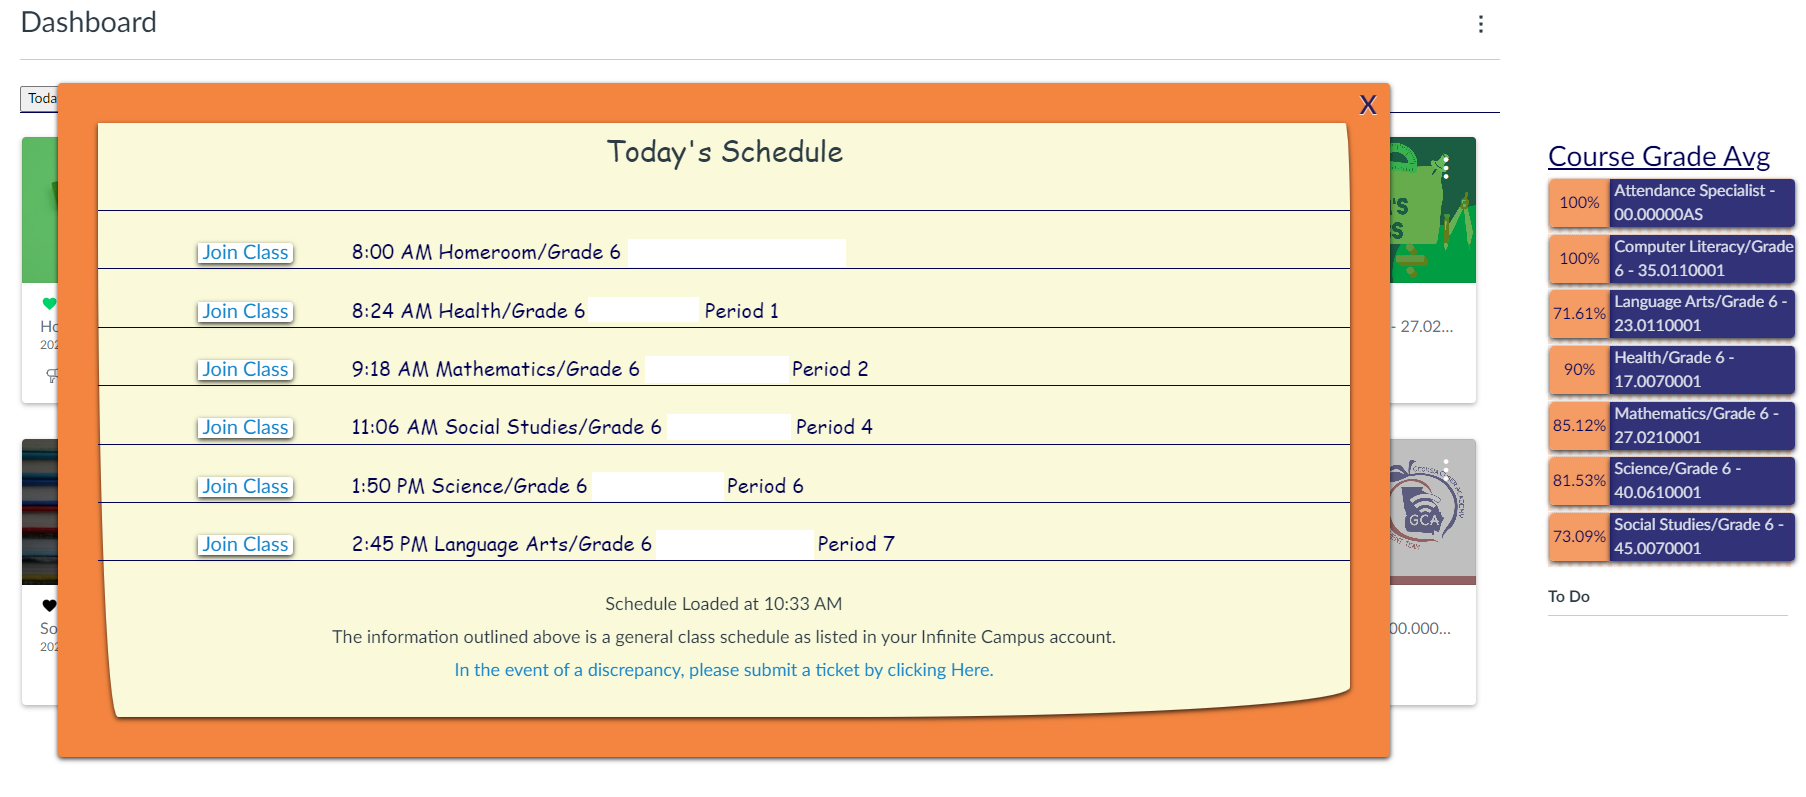
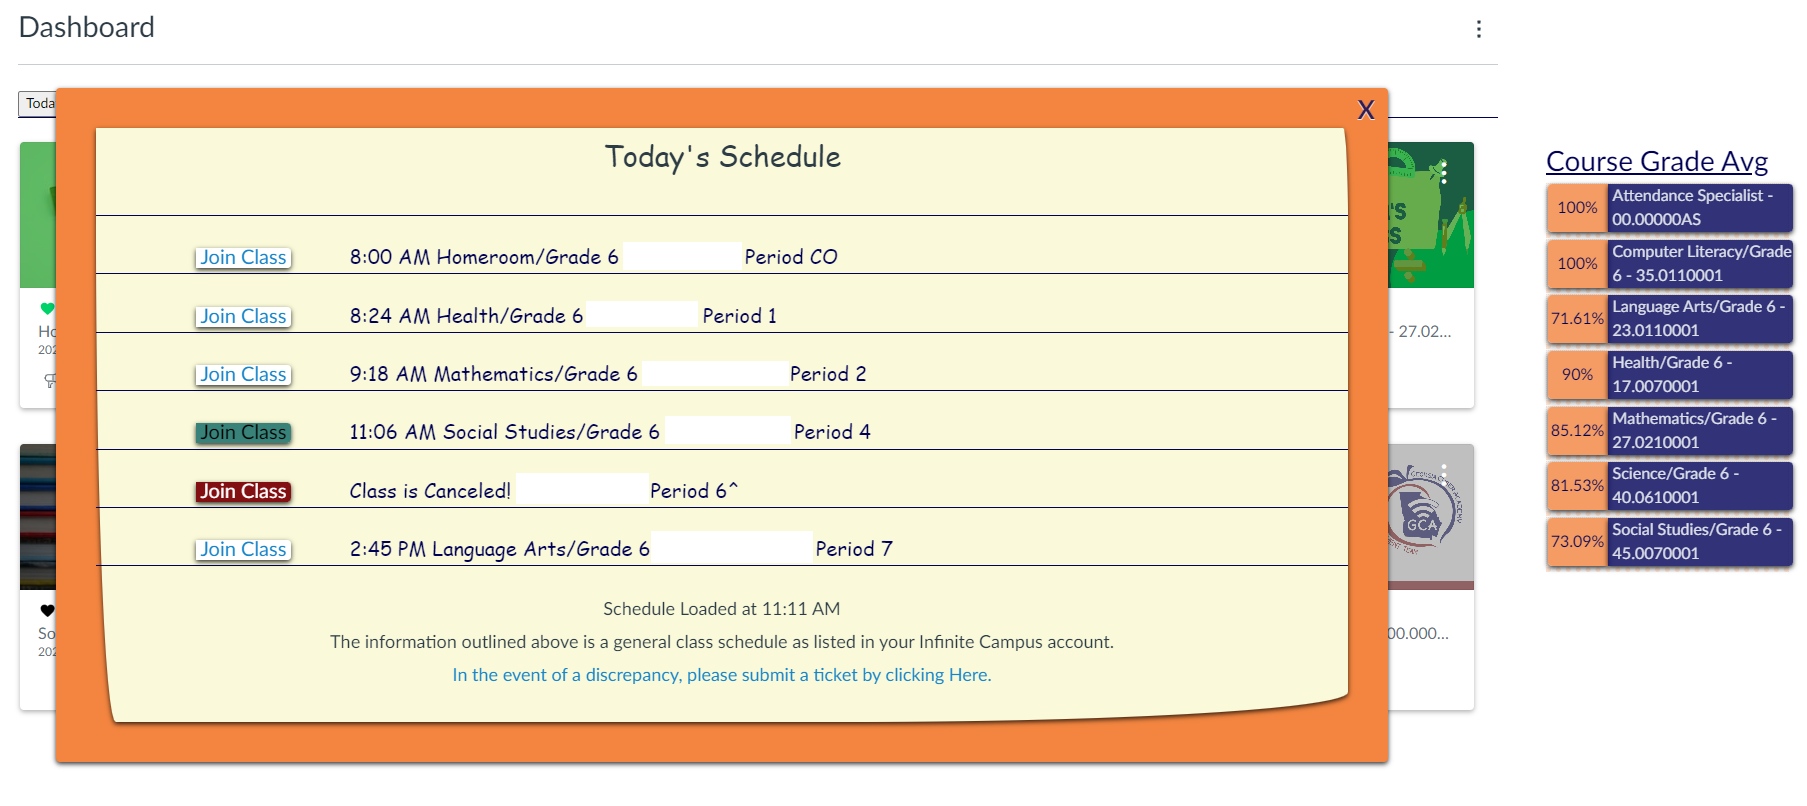
2of3 updates

diff --git a/index.html b/index.html
@@ -84,15 +84,42 @@
         <div class="project-wrapper">
           <h2 class="section-title dark-blue-text">Projects</h2>
 
-          <!-- Notice: each .row is a project Dashboard Grades-->
+          <!-- Notice: each .row is a project Canvas Class Cancel-->
           <div class="row">
             <div class="col-lg-4 col-sm-12">
               <div class="project-wrapper__text load-hidden">
-                <h3 class="project-wrapper__text-title">Canvas Lms Dashboard Scheduler</h3>
+                <h3 class="project-wrapper__text-title">Canvas Lms Class Cancel</h3>
+                <div>
+                  <p class="mb-4">
+                    This is an image of a tool for the Canvas Lms. With the click of two buttons, Teachers can cancel their classes. This will make cancel classes 
+                    show on the Dashboard schedule as canceled. In reports we are able to see any canceled classes on a given day. Live class sessions will also show as canceled,
+                    which proactively supports student attendance and lessons stress and confusion for Teachers, Parents, Students, and all other student related staff.
+                  </p>
+                </div>
+              </div>
+            </div>
+            <div class="col-lg-8 col-sm-12">
+              <div class="project-wrapper__image load-hidden">
+                    <img
+                      alt="Project Image"
+                      class="img-fluid shadow-lg"
+                      src="assets/images/Canvas-class-cancel.png"
+                      ></img>
+                  </div>
+              </div>
+            </div>
+          <!-- /END Project -->
+          <hr/>
+          <!-- Notice: each .row is a project Dashboard Schedule-->
+          <div class="row">
+            <div class="col-lg-4 col-sm-12">
+              <div class="project-wrapper__text load-hidden">
+                <h3 class="project-wrapper__text-title">Canvas Lms Schedule</h3>
                 <div>
                   <p class="mb-4">
                     This is an image of a tool for the Canvas Lms Dashboard. It uses an API call to pull every Course and Section each student is currently enrolled in. 
-                    
+                    The data is filtered and sorted so that a student can see their classes for the day in an organized manner. There is an override script that will tell 
+                    students to follow an alternate schedule that will run automatically with dates set from an Admin course.
                   </p>
                 </div>
               </div>
